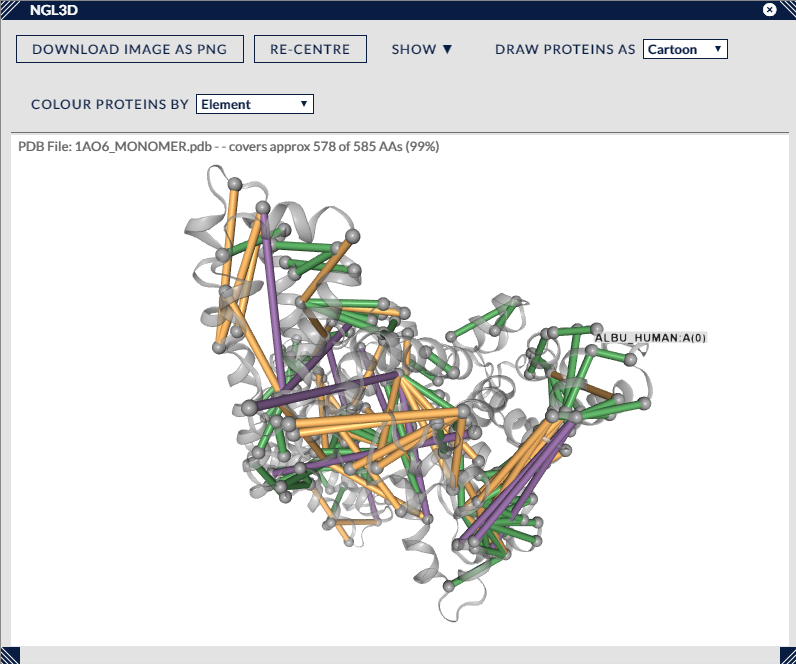
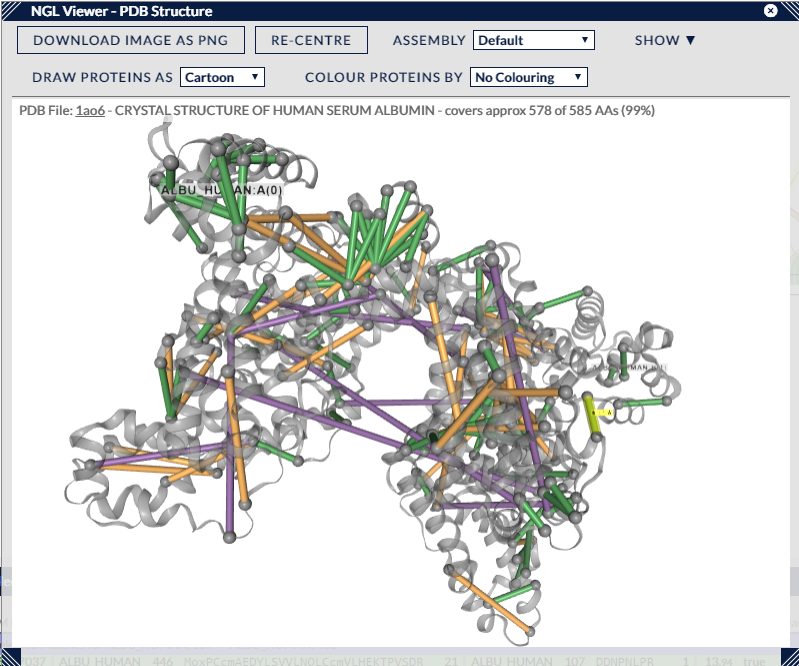
update ngl and matrix docs

diff --git a/html/views/3dngl.html b/html/views/3dngl.html
@@ -4,7 +4,9 @@
 <title>3dngl</title>
 <meta http-equiv="Content-Type" content="text/html; charset=utf-8" />
 <style type="text/css">
-@import url("/xidocs/docs.css");
+@import url("../../docs.css");
+@import url("../docs.css");
+@import url ("/xidocs/docs.css");
 </style>
 </head>
 <body>
@@ -37,9 +39,10 @@
 <h3>Options</h3>
 <p>There are a number of options available that can affect the visual presentation of the cross-links in the 3D view.</p>
 <p>The &quot;Re-Centre&quot; button re-centres the structure within the panel (also available by pressing &quot;R&quot;.)</p>
-<p>There are two single selection drop-downs for styling the protein structure itself. The first, &quot;Draw Proteins&quot;, changes the style of the protein representation. The default is &quot;Cartoon&quot; with other styles described here --&gt; <a href="&quot;http://nglviewer.org/ngl/api/manual/molecular-representations.html&quot;">NGL Representation Styles</a>. In practice, they range from atom-level representations like &quot;Point&quot; or &quot;Ball+Stick&quot; to more abstract representations such as &quot;Rope&quot; or &quot;Cartoon&quot;.</p>
-<p>The second selection dropdown, &quot;Colour Proteins&quot;, controls the colouring of the protein representations. They range from the default &quot;Uniform&quot; grey colouring to colour schemes that change on a per-atom or per-residue basis such as &quot;Element&quot; or &quot;Residue Name&quot;. Consequently, some colour schemes are only useful in conjunction with given representation styles e.g. the &quot;Element&quot; colour scheme works with &quot;Ball+Stick&quot; but has no effect in the &quot;Cartoon&quot; representation. A full list of NGL colour schemes can be found here --&gt; <a href="&quot;http://nglviewer.org/ngl/api/manual/coloring.html&quot;">NGL Colour Schemes</a>.</p>
-<p>A third drop-down menu, &quot;Show&quot;, holds options for setting various decorations on the protein structure, and some options for controlling how cross-links are superimposed upon the structure.</p>
+<p>There are three single selection drop-downs for choosing the parts of the PDB to display and for styling the protein structure itself. The first, &quot;Assembly&quot;, offers a choice of which biological assembly within the PDB file to display. The default is the whole PDB structure, and other options may include UnitCell (usually the same thing), SuperCell (multiple copies of the PDB arranged spatially) and various Biological Assemblies. These Biological Assemblies can range in scale from part of the PDB, through matching the PDB exactly, up to being composed of multiple copies of the PDB - experimentation with these settings is the only way to find out for certain though details on definitions can be found at <a href="https://pdb101.rcsb.org/learn/guide-to-understanding-pdb-data/biological-assemblies" title="Biological Assemblies">https://pdb101.rcsb.org/learn/guide-to-understanding-pdb-data/biological-assemblies</a>.</p>
+<p>The second, &quot;Draw Proteins&quot;, changes the style of the protein representation. The default is &quot;Cartoon&quot; with other styles described here --&gt; <a href="%22http://nglviewer.org/ngl/api/manual/molecular-representations.html%22">NGL Representation Styles</a>. In practice, they range from atom-level representations like &quot;Point&quot; or &quot;Ball+Stick&quot; to more abstract representations such as &quot;Rope&quot; or &quot;Cartoon&quot;.</p>
+<p>The third selection dropdown, &quot;Colour Proteins&quot;, controls the colouring of the protein representations. They range from the default &quot;Uniform&quot; grey colouring to colour schemes that change on a per-atom or per-residue basis such as &quot;Element&quot; or &quot;Residue Name&quot;. Consequently, some colour schemes are only useful in conjunction with given representation styles e.g. the &quot;Element&quot; colour scheme works with &quot;Ball+Stick&quot; but has no effect in the &quot;Cartoon&quot; representation. A full list of NGL colour schemes can be found here --&gt; <a href="%22http://nglviewer.org/ngl/api/manual/coloring.html%22">NGL Colour Schemes</a>.</p>
+<p>A final drop-down menu, &quot;Show&quot;, holds several options for setting various decorations on the protein structure, and some options for controlling how cross-links are superimposed upon the structure.</p>
 <p>For cross-links there are two independent options, we can:</p>
 <ol>
 <li>Show selected cross-links only - this reduces clutter and selected cross-links aren't obscured by unselected cross-links, which is particularly noticeable in 3D.</li>
@@ -48,7 +51,7 @@
 <p>The other available options under &quot;Show&quot; are</p>
 <ul>
 <li>Show Cross-Linked Residues - represent residues as balls at the ends of displayed cross-links.</li>
-<li>Show All Proteins - show proteins in multiple protein PDBs that aren't potentially involved in the current set of filtered cross-links. </li>
+<li>Show All Proteins - show proteins in multiple protein PDBs that aren't potentially involved in the current set of filtered cross-links.</li>
 <li>Show Distance Labels - displayed cross-links are annotated with a small label showing their length in Angstroms. These show up regardless for selected or highlighted cross-links.</li>
 <li>Protein Chain Label Style - Long, Short, None - a set of radio buttons for deciding the content of the label annotating each protein. Long for a verbose description which NGL pulls from the PDB file (plus the short description), short for a label with the protein name and chain index, and none to remove these labels altogether.</li>
 </ul>

diff --git a/html/views/matrix.html b/html/views/matrix.html
@@ -4,7 +4,9 @@
 <title>matrix</title>
 <meta http-equiv="Content-Type" content="text/html; charset=utf-8" />
 <style type="text/css">
-@import url("/xidocs/docs.css");
+@import url("../../docs.css");
+@import url("../docs.css");
+@import url ("/xidocs/docs.css");
 </style>
 </head>
 <body>
@@ -19,8 +21,8 @@
 <p>The first two options, &quot;Drag to Pan&quot; &amp; &quot;Or Select&quot;, are a pair of radio buttons that decide the mode of operation of the matrix when the left mouse button is clicked and dragged. When the &quot;Pan&quot; mode is set, the mouse-wheel will smoothly change the magnification level of the matrix, and holding down the left-mouse button and dragging will pan the matrix if the magnification level permits. Alternatively, when the &quot;Select&quot; mode is set, the mouse wheel has no effect, and holding down the left-mouse button and dragging will draw a box in the view that will select all the cross-links within it when the mouse button is released. This box, when in the &quot;Select&quot; mode, can also be resized and dragged around the matrix to gauge its effect upon cross-link selection. Left-clicking anywhere outside the box will remove it and the current cross-link selection.</p>
 <h4>Other</h4>
 <p>The dropdown menu, &quot;Show Protein Pairing&quot;, in the view controls shows a list of possible protein-protein pairings that can be shown in the matrix. Only those pairings with any unfiltered cross-links are listed, and also ordered by the number of cross-links (again, this is the unfiltered count, it does not change upon cross-link filtering).</p>
-<p>Choosing a pairing that pairs a protein with itself will show the self cross-links for that protein. In this particular case, we treat the protein along the Y axis as always having the highest residue index out of the two residues involved in a cross-link, so cross-links always appear &quot;north-west&quot; of the diagonal. Choosing a pairing of two different proteins will show the corresponding between cross-links, and also produce a rectangular matrix when the proteins are of different sizes. </p>
-<p>When a PDB file is loaded, two other dropdowns will appear that give options to include data for every one of the PDB chains associated with each protein. For small PDBs where full distance data can be reasonably calculated, this will draw a background of distance data which helps to show the cross-links in context. For larger PDBs, it simply shows via white banding which areas of the protein are covered by the PDB - in this way it can be clearly seen which cross-links can be expected to have distance data or which will not be calculable.</p>
+<p>Choosing a pairing that pairs a protein with itself will show the self cross-links for that protein. In this particular case, we treat the protein along the Y axis as always having the highest residue index out of the two residues involved in a cross-link, so cross-links always appear &quot;north-west&quot; of the diagonal. Choosing a pairing of two different proteins will show the corresponding between cross-links, and also produce a rectangular matrix when the proteins are of different sizes.</p>
+<p>When a PDB file is loaded, the matrix will draw a background of distance data which helps to show the cross-links in context. For large PDBs, it simply shows a white banding of which areas of the protein are covered by the PDB - in this way it can be clearly seen which cross-links can be expected to have distance data or which will not be calculable. For smaller PDBs the shortest distances between the residues are displayed as a coloured background, the colours and cutoffs controlled by the Distance colour scheme in the <a href="../views/legend.html" title="Legend">Legend </a>view. This background is also affected by the Assembly setting in the <a href="../views/3dngl.html" title="3DNGL">3D</a> view. If the assembly is restricted to only part of the full pdb, then the distance background here will change to reflect that e.g. only distances between molecules in the current assembly are considered. This is an important consideration in dimers etc where distances can often be shorter between neighbouring molecules than within individual instances.</p>
 <p>The remaining button, &quot;Download Image as SVG&quot;, will download an SVG (vector format) file of the current state of the matrix view. The filename will include information on search id and current filter settings.</p>
 <p>Lastly, like the other views that sit in sub-panels, this view can be resized by clicking on and dragging its corners, and repositioned by clicking on and dragging the title bar. The view can be closed using the X button next to the top right-hand corner.</p>
 

diff --git a/md/views/3dngl.md b/md/views/3dngl.md
@@ -40,11 +40,13 @@ There are a number of options available that can affect the visual presentation 
 
 The "Re-Centre" button re-centres the structure within the panel (also available by pressing "R".)
 
-There are two single selection drop-downs for styling the protein structure itself. The first, "Draw Proteins", changes the style of the protein representation. The default is "Cartoon" with other styles described here --> [NGL Representation Styles]("http://nglviewer.org/ngl/api/manual/molecular-representations.html"). In practice, they range from atom-level representations like "Point" or "Ball+Stick" to more abstract representations such as "Rope" or "Cartoon".
+There are three single selection drop-downs for choosing the parts of the PDB to display and for styling the protein structure itself. The first, "Assembly", offers a choice of which biological assembly within the PDB file to display. The default is the whole PDB structure, and other options may include UnitCell (usually the same thing), SuperCell (multiple copies of the PDB arranged spatially) and various Biological Assemblies. These Biological Assemblies can range in scale from part of the PDB, through matching the PDB exactly, up to being composed of multiple copies of the PDB - experimentation with these settings is the only way to find out for certain though details on definitions can be found at [https://pdb101.rcsb.org/learn/guide-to-understanding-pdb-data/biological-assemblies](https://pdb101.rcsb.org/learn/guide-to-understanding-pdb-data/biological-assemblies "Biological Assemblies").
 
-The second selection dropdown, "Colour Proteins", controls the colouring of the protein representations. They range from the default "Uniform" grey colouring to colour schemes that change on a per-atom or per-residue basis such as "Element" or "Residue Name". Consequently, some colour schemes are only useful in conjunction with given representation styles e.g. the "Element" colour scheme works with "Ball+Stick" but has no effect in the "Cartoon" representation. A full list of NGL colour schemes can be found here --> [NGL Colour Schemes]("http://nglviewer.org/ngl/api/manual/coloring.html").
+The second, "Draw Proteins", changes the style of the protein representation. The default is "Cartoon" with other styles described here --> [NGL Representation Styles]("http://nglviewer.org/ngl/api/manual/molecular-representations.html"). In practice, they range from atom-level representations like "Point" or "Ball+Stick" to more abstract representations such as "Rope" or "Cartoon".
 
-A third drop-down menu, "Show", holds options for setting various decorations on the protein structure, and some options for controlling how cross-links are superimposed upon the structure.
+The third selection dropdown, "Colour Proteins", controls the colouring of the protein representations. They range from the default "Uniform" grey colouring to colour schemes that change on a per-atom or per-residue basis such as "Element" or "Residue Name". Consequently, some colour schemes are only useful in conjunction with given representation styles e.g. the "Element" colour scheme works with "Ball+Stick" but has no effect in the "Cartoon" representation. A full list of NGL colour schemes can be found here --> [NGL Colour Schemes]("http://nglviewer.org/ngl/api/manual/coloring.html").
+
+A final drop-down menu, "Show", holds several options for setting various decorations on the protein structure, and some options for controlling how cross-links are superimposed upon the structure.
 
 For cross-links there are two independent options, we can:
 

diff --git a/md/views/matrix.md b/md/views/matrix.md
@@ -22,7 +22,7 @@ The dropdown menu, "Show Protein Pairing", in the view controls shows a list of 
 
 Choosing a pairing that pairs a protein with itself will show the self cross-links for that protein. In this particular case, we treat the protein along the Y axis as always having the highest residue index out of the two residues involved in a cross-link, so cross-links always appear "north-west" of the diagonal. Choosing a pairing of two different proteins will show the corresponding between cross-links, and also produce a rectangular matrix when the proteins are of different sizes. 
 
-When a PDB file is loaded, two other dropdowns will appear that give options to include data for every one of the PDB chains associated with each protein. For small PDBs where full distance data can be reasonably calculated, this will draw a background of distance data which helps to show the cross-links in context. For larger PDBs, it simply shows via white banding which areas of the protein are covered by the PDB - in this way it can be clearly seen which cross-links can be expected to have distance data or which will not be calculable.
+When a PDB file is loaded, the matrix will draw a background of distance data which helps to show the cross-links in context. For large PDBs, it simply shows a white banding of which areas of the protein are covered by the PDB - in this way it can be clearly seen which cross-links can be expected to have distance data or which will not be calculable. For smaller PDBs the shortest distances between the residues are displayed as a coloured background, the colours and cutoffs controlled by the Distance colour scheme in the [Legend ](../views/legend.html "Legend")view. This background is also affected by the Assembly setting in the [3D](../views/3dngl.html "3DNGL") view. If the assembly is restricted to only part of the full pdb, then the distance background here will change to reflect that e.g. only distances between molecules in the current assembly are considered. This is an important consideration in dimers etc where distances can often be shorter between neighbouring molecules than within individual instances.
 
 The remaining button, "Download Image as SVG", will download an SVG (vector format) file of the current state of the matrix view. The filename will include information on search id and current filter settings.
  
